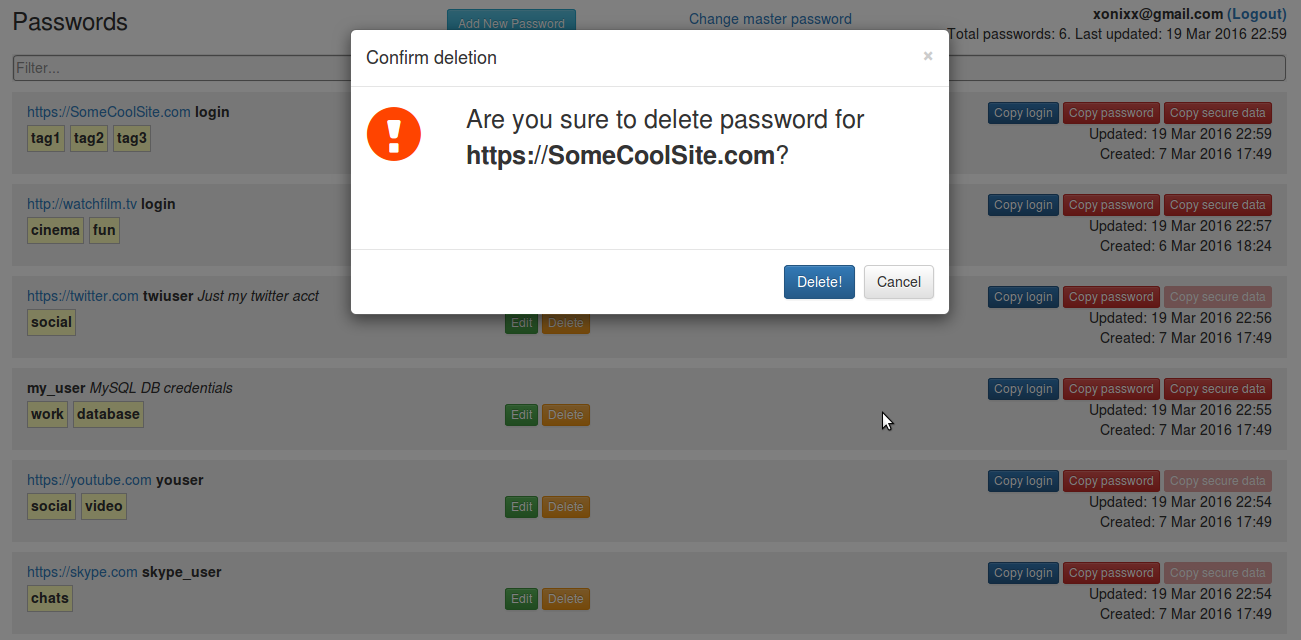
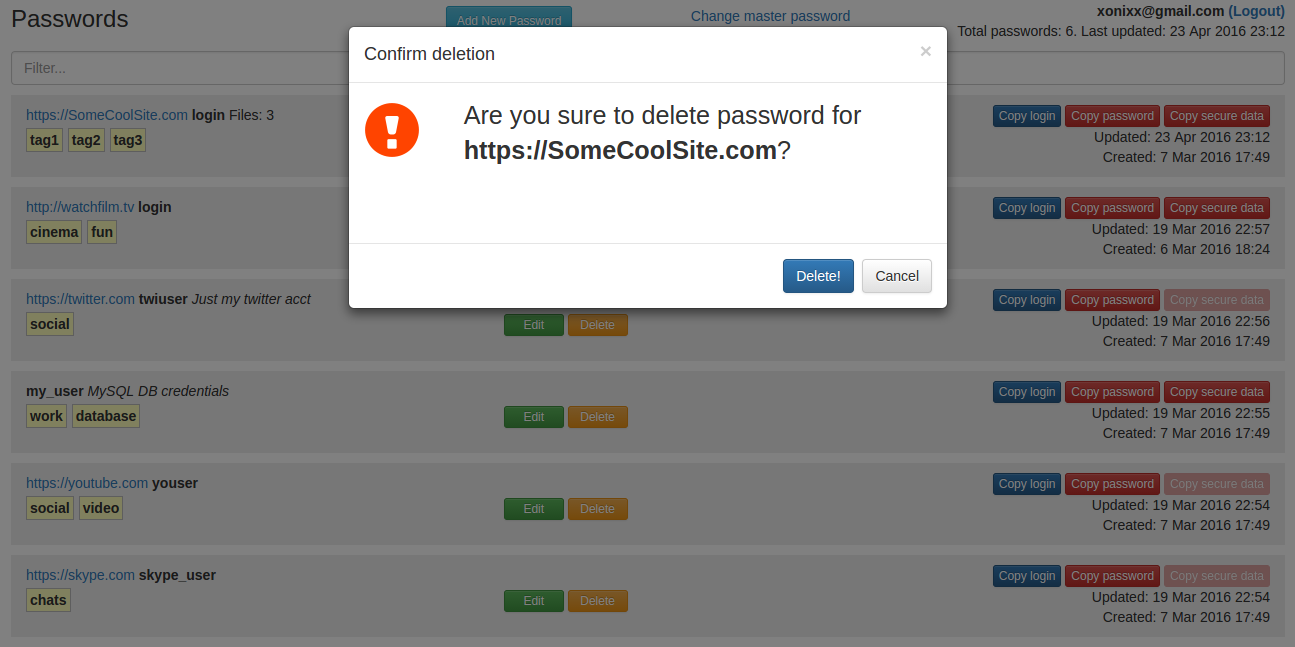
update screenshots + readme

diff --git a/README.md b/README.md
@@ -17,6 +17,7 @@ master-password-protected HTML page.
 1. Minimalistic design with filtering and tags.
 1. Copy any login/password by single click of a mouse.
 1. Automatically logs you out after 5 minutes of inactivity.
+1. **(NEW!)** File attachments support (up to 500 KB). Fully client-encrypted (like in [mega.nz](https://mega.nz)).
 
 ## Installation
 1. You need to have installed Java 7, Maven 3.
@@ -32,9 +33,13 @@ master-password-protected HTML page.
 ![Login with master password](/screenshots/1_login.png?raw=true)
 #### Main screen
 ![Main screen](/screenshots/2_list.png?raw=true)
+#### Copy with a click
+![Main screen](/screenshots/2a_copy_pass.png?raw=true)
 #### Edit record
 ![Edit record](/screenshots/3_edit.png?raw=true)
 #### Delete record
 ![Delete record](/screenshots/4_delete.png?raw=true)
+#### Delete record (2)
+![Delete record](/screenshots/4a_delete.png?raw=true)
 #### Change master password
 ![Change master password](/screenshots/5_change_master.png?raw=true)
